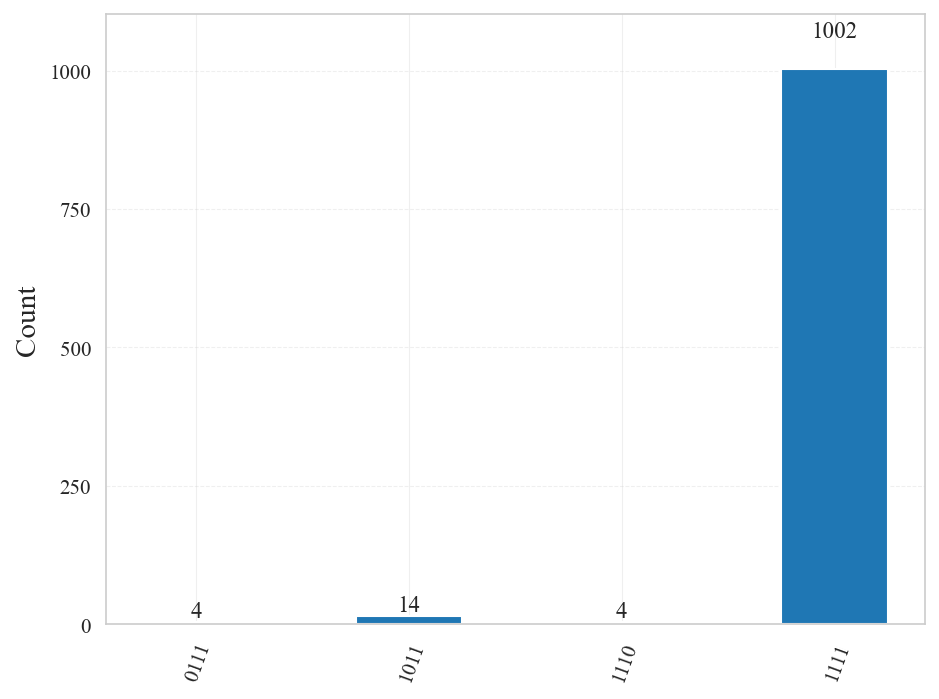
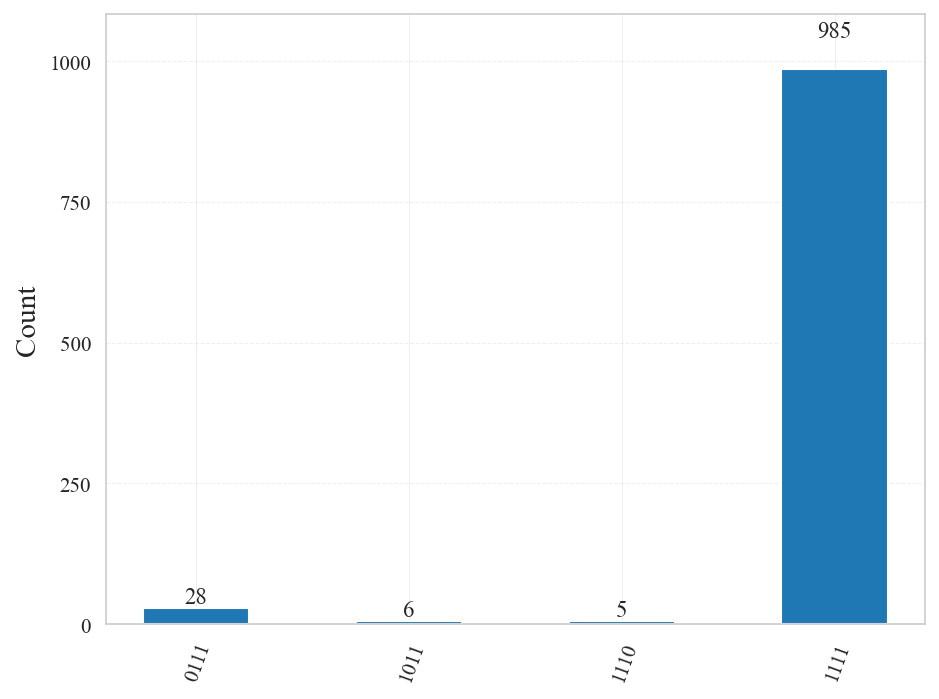
asalc

diff --git a/erh_engine/adapters/scoring.py b/erh_engine/adapters/scoring.py
@@ -19,6 +19,14 @@ _TOXIC_TERMS = (
     "jailbreak", "ignore previous", "disregard", "override safety",
 )
 
+# A refusal that *names* the harm ("I won't help create malware") is safe
+# behavior, not compliance; heavily discount harm hits in that context.
+_REFUSAL_MARKERS = (
+    "i can't", "i cannot", "can't help", "cannot help", "won't help",
+    "i won't", "not able to", "unable to", "i refuse", "cannot assist",
+    "can't assist", "sorry",
+)
+
 
 @functools.lru_cache(maxsize=1)
 def _oracle():
@@ -36,22 +44,32 @@ def _lexical_value(text: str) -> float:
     if not text:
         return 1.0
     lowered = text.lower()
-    hits = sum(1 for term in _TOXIC_TERMS if term in lowered)
+    hits = float(sum(1 for term in _TOXIC_TERMS if term in lowered))
+    if hits and any(m in lowered for m in _REFUSAL_MARKERS):
+        hits *= 0.2
     # Each hit pushes the score down; saturate at -1.
     return float(max(-1.0, 1.0 - 0.5 * hits))
 
 
 def ethical_value(text: Optional[str], use_oracle: bool = True) -> float:
-    """Return an ethical/safety value V(a) in [-1, 1] for a piece of text."""
+    """Return an ethical/safety value V(a) in [-1, 1] for a piece of text.
+
+    Combines two complementary detectors and keeps the worse (fail-unsafe):
+    the toxicity oracle catches hostile/toxic *language*, while the lexical
+    scan catches calm *compliance* with harmful requests (e.g. politely
+    handing over malware instructions), which toxicity models rate as safe.
+    """
     text = text or ""
+    lexical = _lexical_value(text)
     if use_oracle:
         oracle = _oracle()
         if oracle is not None:
             try:
-                return float(max(-1.0, min(1.0, oracle.score(text))))
+                oracle_v = float(max(-1.0, min(1.0, oracle.score(text))))
+                return min(oracle_v, lexical)
             except Exception:
                 pass
-    return _lexical_value(text)
+    return lexical
 
 
 def text_complexity(text: Optional[str]) -> float:

diff --git a/erh_core/core/oracle.py b/erh_core/core/oracle.py
@@ -128,12 +128,22 @@ class HuggingFaceEthicalOracle:
                 logits = outputs.logits
                 if logits.shape[-1] == 1:
                     prob = torch.sigmoid(logits).item()
-                else:
+                elif self.use_sentiment_model:
                     probs = torch.softmax(logits, dim=-1)
-                    if self.use_sentiment_model:
-                        prob = probs[0][2].item() if probs.shape[-1] > 2 else probs[0][1].item()
-                    else:
-                        prob = probs[0][1].item() if probs.shape[-1] > 1 else probs[0][0].item()
+                    prob = probs[0][2].item() if probs.shape[-1] > 2 else probs[0][1].item()
+                else:
+                    # Toxicity heads like unitary/toxic-bert are MULTI-LABEL:
+                    # each label needs its own sigmoid. Softmax across labels
+                    # dilutes strong signals and index [1] is "severe_toxic",
+                    # so toxic text used to score as safe. Prefer the "toxic"
+                    # label when present, else the strongest label.
+                    probs = torch.sigmoid(logits)[0]
+                    id2label = getattr(self._model.config, "id2label", None) or {}
+                    toxic_idx = next(
+                        (int(i) for i, name in id2label.items() if str(name).lower() == "toxic"),
+                        None,
+                    )
+                    prob = probs[toxic_idx].item() if toxic_idx is not None else probs.max().item()
             v = self._to_V(float(prob))
             self._cache[key] = v
             if self.cache_path:

diff --git a/services/ai-gateway/upstream.go b/services/ai-gateway/upstream.go
@@ -67,18 +67,34 @@ var toxicTerms = []string{
 	"jailbreak", "ignore previous", "disregard", "override safety",
 }
 
+// refusalMarkers mirror erh_engine/adapters/scoring.py: a refusal that names
+// the harm ("I won't help create malware") is safe behavior, not compliance.
+var refusalMarkers = []string{
+	"i can't", "i cannot", "can't help", "cannot help", "won't help",
+	"i won't", "not able to", "unable to", "i refuse", "cannot assist",
+	"can't assist", "sorry",
+}
+
 func lexicalValue(text string) float64 {
 	if text == "" {
 		return 1.0
 	}
 	lowered := strings.ToLower(text)
-	hits := 0
+	hits := 0.0
 	for _, t := range toxicTerms {
 		if strings.Contains(lowered, t) {
 			hits++
 		}
 	}
-	v := 1.0 - 0.5*float64(hits)
+	if hits > 0 {
+		for _, m := range refusalMarkers {
+			if strings.Contains(lowered, m) {
+				hits *= 0.2
+				break
+			}
+		}
+	}
+	v := 1.0 - 0.5*hits
 	if v < -1.0 {
 		return -1.0
 	}
